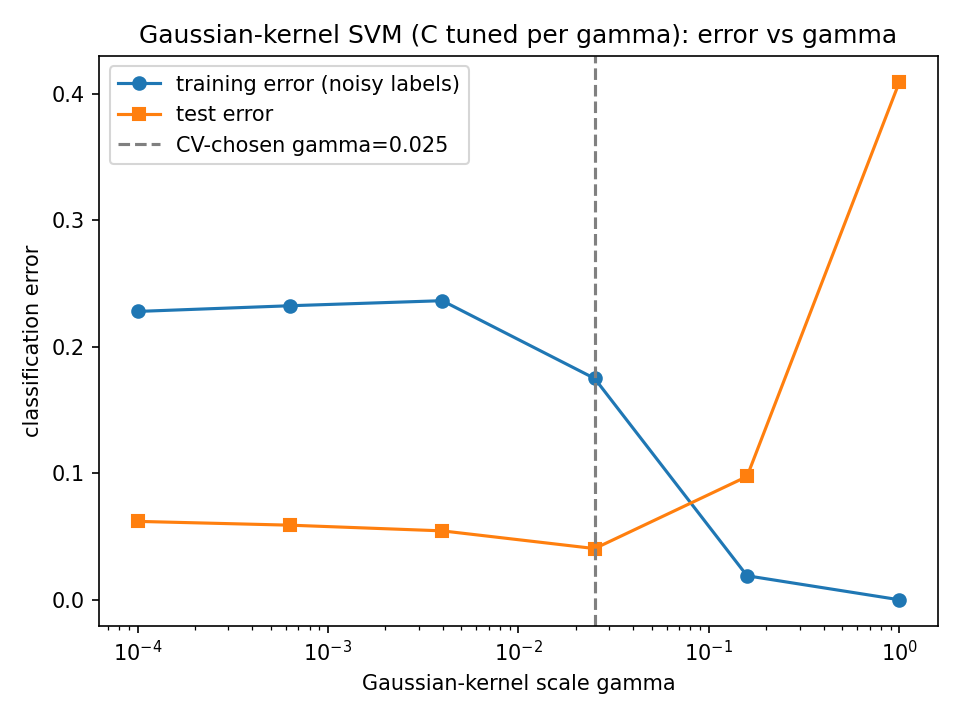
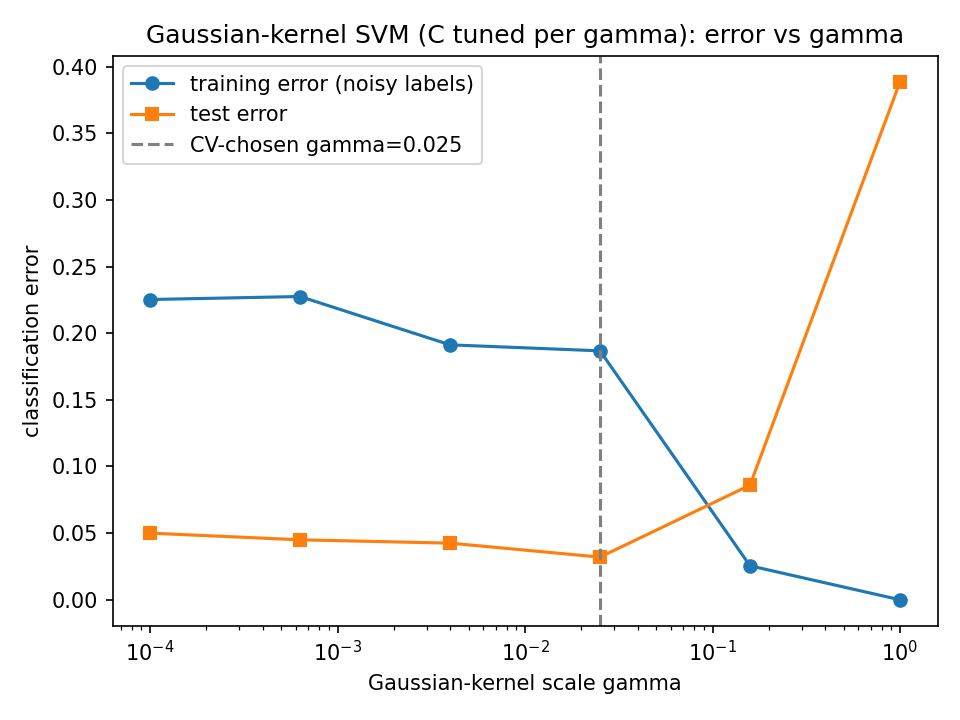
added neural net + experiments

diff --git a/assignment2/comp1.py b/assignment2/comp1.py
@@ -1,6 +1,11 @@
 import os, gzip
 import numpy as np
 import matplotlib.pyplot as plt
+
+import warnings
+from sklearn.exceptions import ConvergenceWarning
+warnings.filterwarnings("ignore", category=ConvergenceWarning)
+from sklearn.neural_network import MLPClassifier
 from sklearn.svm import SVC
 
 from sklearn.linear_model import SGDClassifier
@@ -28,7 +33,7 @@ def load_mnist(path, kind="train"):
 def load_data():
     #load full MNIST
     Xtr_full, ytr_full = load_mnist(DATA_DIR, kind="train")
-    Xte_full, yte_full = load_mnist(DATA_DIR, kind="t10k")
+    Xte_full, yte_full = load_mnist(DATA_DIR, kind="t10k") #loads 10000
  
     #keep only classes 5 and 7 while remapping 5 -> 0, 7 -> 1
     def keep_57(X, y):
@@ -48,7 +53,7 @@ def load_data():
  
     return Xtr, ytr_noisy, Xte, yte, flip.sum()
 
-#print checks (forgot to add to commit)
+#print checks
 Xtr, ytr, Xte, yte, n_flipped = load_data()
 print("train:", Xtr.shape, " test:", Xte.shape)
 print("train class counts (after noise):", np.bincount(ytr))
@@ -57,7 +62,7 @@ print(f"flipped {n_flipped} / {len(ytr)} training labels (p={P_FLIP})")
 print("pixel range:", Xtr.min(), "to", Xtr.max())
 
 
-PER_CLASS = 1000 #The entire 12000 was super slow so this is configurable for now, 3000 still too slow, 1000 was allowed so I'm doing it
+PER_CLASS = 2000 #The entire 12000 was super slow so this is configurable for now, 3000 still too slow, 1000 was allowed so I'm doing it
 if PER_CLASS is not None:
     idx = np.concatenate([rng.permutation(np.where(ytr == c)[0])[:PER_CLASS] for c in (0, 1)])
     idx = rng.permutation(idx)
@@ -155,7 +160,48 @@ for (g, C) in tuned:
 
 
 
-#Neural net next (tmr)
+#Neural net next
+
+#https://scikit-learn.org/stable/modules/generated/sklearn.neural_network.MLPClassifier.html
+
+def make_mlp(hidden, activation, max_iter=200, alpha=1e-4):
+    return MLPClassifier(hidden_layer_sizes=hidden, activation=activation, alpha=alpha, max_iter=max_iter, solver="adam", random_state=SEED)
+
+#tune structure + nonlinearity with my k-fold CV
+nn_configs = [((50,), "relu"), ((100,), "relu"), ((50,), "tanh"), ((100,), "tanh"), ((50, 50), "relu")]
+
+nn_cv = []
+for (hidden, act) in nn_configs:
+    e, _ = k_fold_cross_valid(make_mlp(hidden, act), K, Xtr, ytr)
+    nn_cv.append(e)
+    print(f"hidden={hidden}, act={act} CV err = {e:.4f}")
+bi_nn = int(np.argmin(nn_cv))
+best_hidden, best_act = nn_configs[bi_nn]
+print(f"recorded optimal NN: hidden={best_hidden}, activation={best_act}")
+
+#Testing the neural net on the experiments
+
+#vary number of hidden nodes
+node_grid = [5, 10, 25, 50, 100, 200]
+tr_err_nnA, te_err_nnA = [], []
+for h in node_grid:
+    m = make_mlp((h,), best_act).fit(Xtr, ytr)
+    tr_err_nnA.append((m.predict(Xtr) != ytr).mean())
+    te_err_nnA.append((m.predict(Xte) != yte).mean())
+
+#vary number of training epochs
+epoch_grid = [1, 2, 5, 10, 25, 50, 100, 200]
+tr_err_nnB, te_err_nnB = [], []
+for mi in epoch_grid:
+    m = make_mlp(best_hidden, best_act, max_iter=mi).fit(Xtr, ytr)
+    tr_err_nnB.append((m.predict(Xtr) != ytr).mean())
+    te_err_nnB.append((m.predict(Xte) != yte).mean())
+    
+#compare the svm, gaussian kernel and neural net (using the fine tuned, just call the helpers with the best param)
+
+
+
+
 
 #Plottings
 
@@ -181,4 +227,24 @@ plt.ylabel("classification error")
 plt.title("Gaussian-kernel SVM (C tuned per gamma): error vs gamma")
 plt.legend(); plt.tight_layout()
 plt.savefig("results/gaussian_svm.png", dpi=150)
+plt.show()
+
+plt.figure()
+plt.plot(node_grid, tr_err_nnA, "o-", label="training error (noisy labels)")
+plt.plot(node_grid, te_err_nnA, "s-", label="test error")
+plt.xlabel("number of nodes in hidden layer")
+plt.ylabel("classification error")
+plt.title(f"NN: vary hidden-layer width (activation={best_act})")
+plt.legend(); plt.tight_layout()
+plt.savefig("results/nn_width.png", dpi=150)
+plt.show()
+
+plt.figure()
+plt.plot(epoch_grid, tr_err_nnB, "o-", label="training error (noisy labels)")
+plt.plot(epoch_grid, te_err_nnB, "s-", label="test error")
+plt.xlabel("max training epochs (max_iter)")
+plt.ylabel("classification error")
+plt.title(f"NN: vary training epochs (hidden={best_hidden}, act={best_act})")
+plt.legend(); plt.tight_layout()
+plt.savefig("results/nn_epochs.png", dpi=150)
 plt.show()
